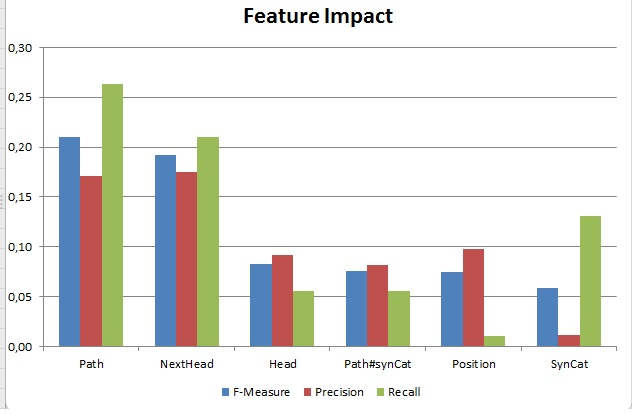
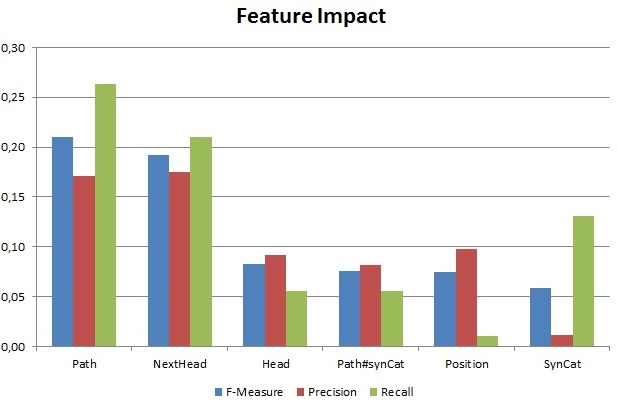
small fixes

diff --git a/src/latex/final_presentation/final_presentation.tex b/src/latex/final_presentation/final_presentation.tex
@@ -503,7 +503,7 @@
 	}
 
 	\frame{
-		\frametitle{Einordnung der Ergebnisse}
+		\frametitle{Einordnung der Ergebnisse (1)}
 		\begin{itemize}[label=$\bullet$,itemsep=1.5ex]
 			\item Erstes SRL-Projekt auf dem SALSA 2.0 Korpus
 			%\vspace{1cm}
@@ -525,9 +525,19 @@
 				\item $\Longrightarrow$ besserer Recall $\Longrightarrow$ besserer F-Measure
 			\end{itemize}
 			
-			\item Bedeutenste Features: Pfad \& Nachbar-Kopf
-				% im Durchschnitt: 20% bzw. 15%
 		\end{itemize}
+	}
+
+\frame{
+		\frametitle{Einordnung der Ergebnisse (2)}
+		
+		\begin{figure}
+			\includegraphics[scale=0.65]{images/featureImpact.jpg}
+			\caption{Bedeutendste Features: Pfad \& Nachbar-Kopf}
+		\end{figure}
+		%\item Bedeutendste Features: Pfad \& Nachbar-Kopf
+				% im Durchschnitt: 20% bzw. 15%
+		
 	}
 
 	\frame{
